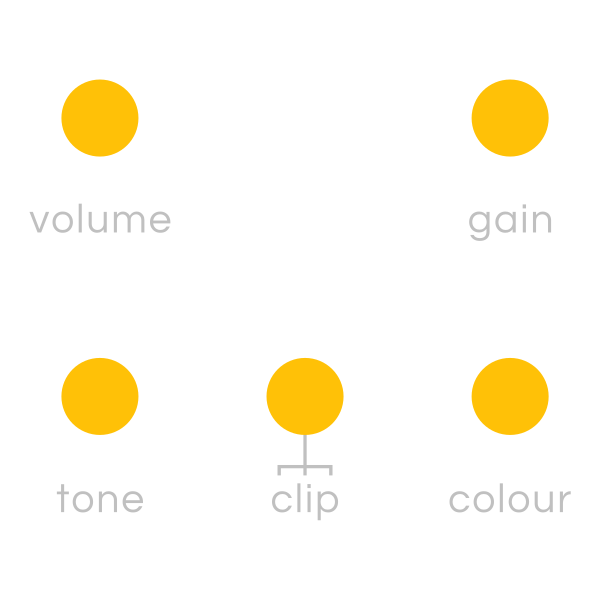
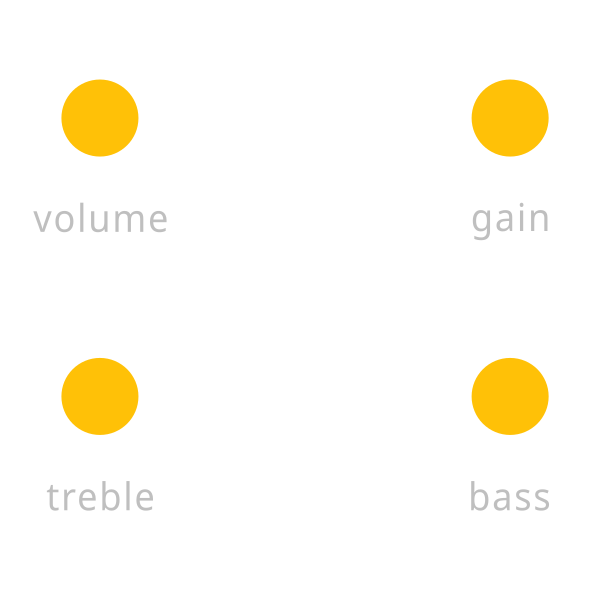
Updated the effect images

diff --git a/_effects/shining-pig.md b/_effects/shining-pig.md
@@ -11,7 +11,6 @@ images:
   hero: /assets/images/effects/shining-pig/hero.png
   story_1: /assets/images/effects/shining-pig/story-1.png
   knobs: /assets/images/effects/shining-pig/knobs.png
-  internals: /assets/images/effects/shining-pig/internals.png
   ioboard: /assets/images/effects/shining-pig/ioboard.png
 
 story: |
@@ -31,7 +30,6 @@ story: |
 
   For builders, this is the perfect entry point into the YGN Framework. The circuit is simple but sensitive, allowing you to figure out the importance of biasing and power rails. And because the PCB is a straightforward layout, you aren't locked in: swap a few values and add a few traces to convert it to the 9V Overdriver spec, or keep it 18V for the full experience.
 
-knobs-image: sexyrodent-knobs.png
 knobs:
   - name: Volume
     desc: Adjusts the output volume of the effect.
@@ -46,9 +44,6 @@ knobs:
 
 
 internals:
-  - name: Mellow
-    desc: Setting this on will tame the beast a little. It will filter some higher frequencies out at the clipping stage resulting in a slightly less aggressive, smoother sound.
-
 ioboard:
   - name: Mode
     desc: This jumper allows you to set the power-on state of the pedal. With the jumper present it will stay off and without the jumper it will switch on upon powering.
